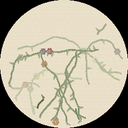
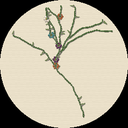
Generative: finish-then-hold model, 10 core-technique generators, 15 slow continuous variants, stability fixes
Claude-Session: https://claude.ai/code/session_01LQ7T65NZWhVT6pxRpE8RPU

Changed region(s): [[0.0625, 0.0312, 0.9688, 1.0], [0.875, 0.3438, 0.9375, 0.4375], [0.9375, 0.4375, 0.9688, 0.4688]]

diff --git a/docs/index.html b/docs/index.html
@@ -97,7 +97,7 @@ function render() {
       <div class="tick">${sel.has(n)?'✓':''}</div>
       <img src="thumbs/${n}.${anim?'gif':'png'}" loading="lazy" alt="${n}">
       <div class="n"><span>${n.replace(/_/g,' ')}</span><span>${p.gen ? 'on-device' : fmt(p.bytes)}</span></div>
-      <div class="s"><span class="tag">${p.set}</span>${p.gen ? '<span class="tag" style="color:#d6a83a">generative ∞</span>' : `<span class="tag">${p.frames} fr</span>`}${p.loop?'<span class="tag loop">loop</span>':''}${p.bg?'<span class="tag">ground</span>':''}</div>
+      <div class="s"><span class="tag">${p.set}</span>${p.gen ? (n.endsWith('_slow') ? '<span class="tag" style="color:#9cd">slow · continuous</span>' : '<span class="tag" style="color:#d6a83a">generative ∞</span>') : `<span class="tag">${p.frames} fr</span>`}${p.loop?'<span class="tag loop">loop</span>':''}${p.bg?'<span class="tag">ground</span>':''}</div>
     </div>`; }).join('');
   document.querySelectorAll('#sets .chip').forEach(c => c.classList.toggle('on', activeSets.has(c.dataset.set)));
   const u = used(), pct = Math.min(100, u / CAP * 100);

diff --git a/firmware/pin_firmware/generative.h b/firmware/pin_firmware/generative.h
@@ -8,13 +8,14 @@
 extern uint16_t *frameBuf;
 #define GW 240
 #define GH 240
-#define GEN_COUNT 32
+#define GEN_COUNT 42
 static const char *GEN_NAMES[GEN_COUNT] = {"gen_wander", "gen_spirograph", "gen_vine", "gen_lissajous", "gen_sashiko_drift",
                                            "gen_patchwork", "gen_mandala", "gen_flowfield", "gen_phyllotaxis", "gen_life_x", "gen_granny_square", "gen_granny_shapes",
                                            "gen_roses_cream", "gen_roses_black", "gen_daisies_cream", "gen_daisies_black", "gen_lavender_cream", "gen_lavender_black",
                                            "gen_blossom_cream", "gen_blossom_black", "gen_ferns_cream", "gen_ferns_black",
                                            "gen_asawa_lobes_cream", "gen_asawa_lobes_black", "gen_asawa_nested_cream", "gen_asawa_nested_black", "gen_asawa_tied_cream", "gen_asawa_tied_black",
-                                           "gen_asawa_column_cream", "gen_asawa_column_black", "gen_asawa_loops_cream", "gen_asawa_loops_black"};
+                                           "gen_asawa_column_cream", "gen_asawa_column_black", "gen_asawa_loops_cream", "gen_asawa_loops_black",
+                                           "gen_turing", "gen_truchet", "gen_flock", "gen_dla", "gen_packing", "gen_subdivide", "gen_contours", "gen_attractor", "gen_harmonograph", "gen_molnar"};
 
 // ---------------- palette / colour helpers ----------------
 static inline uint16_t C565(int r, int g, int b) { return ((r & 0xF8) << 8) | ((g & 0xFC) << 3) | (b >> 3); }
@@ -31,11 +32,12 @@ static float frandr(float a, float b) { return a + (b - a) * frand(); }
 // ---------------- drawing primitives ----------------
 static inline void px(int x, int y, uint16_t c) { if ((unsigned)x < GW && (unsigned)y < GH) frameBuf[y * GW + x] = c; }
 static void disc(float cx, float cy, float r, uint16_t c) {
+  if (!(r > 0 && r < 200) || !(fabsf(cx) < 1000) || !(fabsf(cy) < 1000)) return;
   int x0 = floorf(cx - r), x1 = ceilf(cx + r), y0 = floorf(cy - r), y1 = ceilf(cy + r); float r2 = r * r;
   for (int y = y0; y <= y1; y++) for (int x = x0; x <= x1; x++) { float dx = x + 0.5f - cx, dy = y + 0.5f - cy; if (dx * dx + dy * dy <= r2) px(x, y, c); }
 }
 static void thick(float x0, float y0, float x1, float y1, float w, uint16_t c) {
-  float dx = x1 - x0, dy = y1 - y0, L = sqrtf(dx * dx + dy * dy); int n = max(1, int(L / 0.6f));
+  float dx = x1 - x0, dy = y1 - y0, L = sqrtf(dx * dx + dy * dy); if (!(L < 600)) return; int n = max(1, int(L / 0.6f));
   for (int i = 0; i <= n; i++) { float t = (float)i / n; disc(x0 + dx * t, y0 + dy * t, w * 0.5f, c); }
 }
 // a thread: shadow, body, highlight ridge
@@ -75,6 +77,10 @@ struct Gen {
   float branchX[40], branchY[40], branchA[40], branchL[40]; int branches;
 };
 static Gen G;
+static bool genComplete = false;   // composition finished: hold (or, in slow mode, dissolve and begin again)
+static bool genEvolving = false;   // never 'finishes' — may be switched away from at any time
+static bool genSlow = false;
+static int  slowFade = 0;
 static uint16_t palRand() { return PAL[random(0, 7)]; }
 
 // ---- 0 wandering seam: a running stitch with momentum, re-entering with a new colour
@@ -101,13 +107,12 @@ static void stepSpiro() {
     G.i++;
     if (G.i % 500 == 0) G.pcol = palRand();
   }
-  if (G.i > 3000 * G.n / 3) { fadeToGround(90); G.a = random(40, 100); G.b = random(7, 45); G.c = random(10, 70); G.i = 0; }
-  else if (G.steps % 30 == 0) fadeToGround(4);
+  if (G.i > 1000 * G.n) genComplete = true;
 }
 // ---- 2 vine: branching growth with leaves and knot flowers
-static void initVine() { fillGround(C565(232, 224, 204), true); G.branches = 1; G.branchX[0] = 120 + frandr(-40, 40); G.branchY[0] = 236; G.branchA[0] = -1.57f + frandr(-0.3f, 0.3f); G.branchL[0] = 1; }
+static void initVine() { fillGround(C565(232, 224, 204), true); G.branches = 1; float x = 120 + frandr(-40, 40); G.branchX[0] = x; G.branchY[0] = 120 + sqrtf(108 * 108 - (x - 120) * (x - 120)) - 3; G.branchA[0] = -1.57f + frandr(-0.3f, 0.3f); G.branchL[0] = 1; }
 static void stepVine() {
-  if (G.branches == 0 || G.steps % 400 == 399) { fadeToGround(60); G.branches = 1; G.branchX[0] = frandr(30, 210); G.branchY[0] = frandr(30, 210); G.branchA[0] = frandr(0, 6.28f); G.branchL[0] = 1; }
+  if (G.branches == 0) { genComplete = true; return; }
   for (int bi = 0; bi < G.branches; bi++) {
     float &x = G.branchX[bi], &y = G.branchY[bi], &a = G.branchA[bi];
     a += frandr(-0.35f, 0.35f);
@@ -171,7 +176,7 @@ static void stepMand() {
     float a = 6.2832f * k / count - 1.57f + G.f;
     for (int o = -1; o <= 1; o++) { float aa = a + o * 0.05f * (12.0f / G.i); stitch(120 + ri * cosf(a), 120 + ri * sinf(a), 120 + ro * cosf(aa), 120 + ro * sinf(aa), 2.6f, G.pcol); }
     G.e += 1;
-  } else { G.i++; G.e = 0; G.pcol = palRand(); G.f += frandr(-0.2f, 0.2f); if (ro > 110) { fadeToGround(120); G.i = 1; G.n = random(5, 9); } }
+  } else { G.i++; G.e = 0; G.pcol = palRand(); G.f += frandr(-0.2f, 0.2f); if (ro > 110) genComplete = true; }
 }
 // ---- 7 flow field: short stitches following slowly rotating value noise
 static float vnoise(float x, float y) {
@@ -196,7 +201,7 @@ static void initPhyl() { uint16_t g = random(2) ? SOOT : C565(232, 224, 204); fi
 static void stepPhyl() {
   for (int k = 0; k < 2; k++) {
     float r = G.b * sqrtf((float)G.i), a = G.i * G.a;
-    if (r > 108) { fadeToGround(140); G.i = 0; G.a = 2.39996f + frandr(-0.03f, 0.03f); G.b = frandr(5.5f, 7.5f); G.col = random(0, 7); return; }
+    if (r > 108) { genComplete = true; return; }
     knot(120 + r * cosf(a), 120 + r * sinf(a), 2.2f + r / 60, PAL[(G.col + G.i / 40) % 7]); G.i++;
   }
 }
@@ -241,7 +246,7 @@ static void grannyNew(bool shapes) {
 }
 static void T(float x, float y, float rot, float &ox, float &oy) { ox = 120 + x * cosf(rot) - y * sinf(rot); oy = 120 + x * sinf(rot) + y * cosf(rot); }
 static void grannyStep(bool shapes) {
-  if (GR.done) { if (++GR.holdSteps > 250) { fadeToGround(255); grannyNew(shapes); } return; }
+  if (GR.done) { genComplete = true; return; }
   uint16_t col = GR.pal[GR.n % 8];
   if (GR.sides == 0) {   // circular rounds
     float ri = GR.inner0 + GR.step * (GR.n - 1), ro = ri + GR.step - 2; int count = 6 + 5 * GR.n;
@@ -337,7 +342,7 @@ static void floraStep() {
   int blooming = 0;
   for (int i = 0; i < FL.nfl; i++) if (FL.fl[i].alive) { blooming++; if (!bloom(FL.fl[i])) FL.fl[i].alive = false; if (blooming >= 3) break; }
   if (alive == 0 && blooming == 0) {
-    if (++FL.quiet > 120) { fadeToGround(255); floraInit(FL.kind * 2 + FL.dark); }
+    if (++FL.quiet > 40) genComplete = true;
     else if (FL.quiet == 1 && FL.ntips < 20 && frand() < 0.7f) { FL.quiet = 0; if (FL.kind == 3) addTip(frandr(60, 180), frandr(60, 180), frandr(-0.6f, 0.6f)); else addGroundTip(frandr(40, 200)); }
   }
 }
@@ -381,7 +386,7 @@ static void asawaNew(int k) {
   if (AS.kind != 2) stitch(120, 0, 120, AS.forms[0].y0, 1.1f, asawaCol(0));   // hanging wire
 }
 static void asawaStep() {
-  if (AS.done) { if (++AS.hold > 220) { fadeToGround(255); asawaNew(AS.kind * 2 + AS.dark); } return; }
+  if (AS.done) { genComplete = true; return; }
   if (AS.kind == 2) {   // grow one generation of branches per few steps
     if (AS.bcur >= AS.bnext) { if (AS.f >= AS.bdepth || AS.nb >= 150) { AS.done = true; return; } AS.f++; AS.bcur = AS.bnext; AS.bnext = AS.nb; }
     // draw one branch, then spawn its children
@@ -404,13 +409,162 @@ static void asawaStep() {
   if (AS.y > F.y1) { AS.f++; if (AS.f >= AS.nf) AS.done = true; else { AS.y = AS.forms[AS.f].y0; AS.lastY = AS.y; } }
 }
 
+
+// ---- 32..41 core generative techniques, stitched
+static uint16_t randGround() { uint16_t g = random(2) ? SOOT : C565(232, 224, 204); fillGround(g, g != SOOT); return g; }
+static uint16_t threadFor(uint16_t g) { return g == SOOT ? (random(3) ? palRand() : CREAM) : palRand(); }
+
+// 32 reaction-diffusion (Gray-Scott) on a 60x60 grid, high-V cells become knots
+struct RD { float U[3600], V[3600]; float f, k; uint16_t col; } RDs;
+static void initTuring() { uint16_t g = randGround(); RDs.col = threadFor(g); RDs.f = frandr(0.030f, 0.055f); RDs.k = frandr(0.059f, 0.064f);
+  for (int i = 0; i < 3600; i++) { RDs.U[i] = 1; RDs.V[i] = 0; } for (int n = 0; n < 12; n++) { int cx = random(10, 50), cy = random(10, 50); for (int y = -2; y <= 2; y++) for (int x = -2; x <= 2; x++) RDs.V[(cy + y) * 60 + cx + x] = 1; } }
+static void stepTuring() {
+  for (int it = 0; it < 6; it++) {
+    static float nU[3600], nV[3600];
+    for (int y = 0; y < 60; y++) for (int x = 0; x < 60; x++) { int i = y * 60 + x; int l = y * 60 + (x + 59) % 60, r = y * 60 + (x + 1) % 60, u = ((y + 59) % 60) * 60 + x, d = ((y + 1) % 60) * 60 + x;
+      float lu = RDs.U[l] + RDs.U[r] + RDs.U[u] + RDs.U[d] - 4 * RDs.U[i], lv = RDs.V[l] + RDs.V[r] + RDs.V[u] + RDs.V[d] - 4 * RDs.V[i]; float uvv = RDs.U[i] * RDs.V[i] * RDs.V[i];
+      nU[i] = constrain(RDs.U[i] + 0.19f * lu - uvv + RDs.f * (1 - RDs.U[i]), 0.0f, 1.0f); nV[i] = constrain(RDs.V[i] + 0.09f * lv + uvv - (RDs.f + RDs.k) * RDs.V[i], 0.0f, 1.0f); }
+    memcpy(RDs.U, nU, sizeof nU); memcpy(RDs.V, nV, sizeof nV);
+  }
+  if (G.steps % 3) return;
+  fillGround(ground, ground != SOOT);
+  for (int y = 0; y < 60; y++) for (int x = 0; x < 60; x++) { float v = RDs.V[y * 60 + x]; float px_ = x * 4 + 2, py_ = y * 4 + 2; if (v > 0.25f && inCircle(px_, py_, 114)) knot(px_, py_, 1.2f + v * 2.2f, shade(RDs.col, 0.8f + v * 0.5f)); }
+  if (G.steps > 700) genComplete = true;
+}
+// 33 Truchet tiles: quarter-arc tiles, random flips rippling through
+static uint8_t TR[64];
+static void drawTruchetTile(int i, int j, uint16_t col) { const float c = 30; float x = i * c, y = j * c; bool f = TR[j * 8 + i];
+  for (int k = 0; k < 10; k++) { float a0 = k * 0.157f, a1 = a0 + 0.157f; float cx0 = f ? x : x + c, cy0 = y, cx1 = f ? x + c : x, cy1 = y + c; float s0 = f ? 0 : 1.5708f, s1 = f ? 3.1416f : 4.7124f;
+    stitch(cx0 + c / 2 * cosf(s0 + a0), cy0 + c / 2 * sinf(s0 + a0), cx0 + c / 2 * cosf(s0 + a1), cy0 + c / 2 * sinf(s0 + a1), 2.4f, col);
+    stitch(cx1 + c / 2 * cosf(s1 + a0), cy1 + c / 2 * sinf(s1 + a0), cx1 + c / 2 * cosf(s1 + a1), cy1 + c / 2 * sinf(s1 + a1), 2.4f, col); } }
+static void initTruchet() { uint16_t g = randGround(); G.pcol = threadFor(g); for (int i = 0; i < 64; i++) TR[i] = random(2); for (int j = 0; j < 8; j++) for (int i = 0; i < 8; i++) drawTruchetTile(i, j, G.pcol); }
+static void stepTruchet() { if (G.steps % 6) return; int i = random(0, 8), j = random(0, 8); TR[j * 8 + i] ^= 1;
+  // redraw the tile's square with ground then arcs (neighbours' arcs end at tile edges so nothing else is disturbed)
+  for (int y = j * 30; y < j * 30 + 30; y++) for (int x = i * 30; x < i * 30 + 30; x++) if (inCircle(x, y, 121)) frameBuf[y * GW + x] = ground;
+  drawTruchetTile(i, j, G.pcol); if (G.steps % 600 == 0) G.pcol = threadFor(ground); }
+// 34 flocking: boids leave thread trails
+struct Boid { float x, y, vx, vy; uint16_t c; } BD[26];
+static void initFlock() { uint16_t g = randGround(); for (auto &b : BD) { b.x = frandr(60, 180); b.y = frandr(60, 180); float a = frandr(0, 6.28f); b.vx = cosf(a) * 2; b.vy = sinf(a) * 2; b.c = threadFor(g); } }
+static void stepFlock() {
+  for (auto &b : BD) { float cx = 0, cy = 0, ax = 0, ay = 0, sx = 0, sy = 0; int n = 0;
+    for (auto &o : BD) { if (&o == &b) continue; float dx = o.x - b.x, dy = o.y - b.y, d2 = dx * dx + dy * dy; if (d2 < 1600) { cx += o.x; cy += o.y; ax += o.vx; ay += o.vy; n++; if (d2 < 120) { sx -= dx; sy -= dy; } } }
+    if (n) { b.vx += ((cx / n - b.x) * 0.004f + (ax / n - b.vx) * 0.05f + sx * 0.03f); b.vy += ((cy / n - b.y) * 0.004f + (ay / n - b.vy) * 0.05f + sy * 0.03f); }
+    float dx = 120 - b.x, dy = 120 - b.y, d = sqrtf(dx * dx + dy * dy); if (d > 90) { b.vx += dx / d * 0.12f; b.vy += dy / d * 0.12f; }
+    float sp = sqrtf(b.vx * b.vx + b.vy * b.vy); if (sp > 2.4f) { b.vx *= 2.4f / sp; b.vy *= 2.4f / sp; } if (sp < 1.2f) { b.vx *= 1.3f; b.vy *= 1.3f; }
+    float nx = b.x + b.vx, ny = b.y + b.vy; if (inCircle(nx, ny, 112)) stitch(b.x, b.y, nx, ny, 1.6f, b.c); b.x = nx; b.y = ny; }
+  if (G.steps % 6 == 0) fadeToGround(7);
+}
+// 35 diffusion-limited aggregation: walkers stick to a growing crystal of knots
+static uint8_t OCC[GW * GH / 8];
+static inline bool occ(int x, int y) { return (unsigned)x < GW && (unsigned)y < GH && (OCC[(y * GW + x) >> 3] >> (x & 7)) & 1; }
+static inline void setOcc(int x, int y) { OCC[(y * GW + x) >> 3] |= 1 << (x & 7); }
+static void initDLA() { uint16_t g = randGround(); G.pcol = threadFor(g); memset(OCC, 0, sizeof OCC); int seeds = random(1, 4); G.a = 6; for (int i = 0; i < seeds; i++) { int x = 120 + random(-30, 31), y = 120 + random(-30, 31); setOcc(x, y); knot(x, y, 2.2f, G.pcol); G.a = max(G.a, sqrtf((x - 120.f) * (x - 120.f) + (y - 120.f) * (y - 120.f)) + 6); } G.i = 0; }
+static void stepDLA() {
+  for (int w = 0; w < 10; w++) { float a = frandr(0, 6.28f), sr = min(108.0f, G.a + 4); int x = 120 + sr * cosf(a), y = 120 + sr * sinf(a);
+    for (int t = 0; t < 2500; t++) { x += random(-1, 2); y += random(-1, 2); if (!inCircle(x, y, min(110.0f, G.a + 14))) { a = frandr(0, 6.28f); x = 120 + sr * cosf(a); y = 120 + sr * sinf(a); }
+      if (occ(x + 1, y) || occ(x - 1, y) || occ(x, y + 1) || occ(x, y - 1)) { setOcc(x, y); float d = sqrtf((x - 120.f) * (x - 120.f) + (y - 120.f) * (y - 120.f)); knot(x, y, 1.6f + (d > 60 ? 0.6f : 0), shade(G.pcol, 0.75f + d / 200)); G.a = max(G.a, d + 6); G.i++; break; } } }
+  if (G.i > 2200 || G.a > 112) genComplete = true;
+}
+// 36 circle packing: stitched rings packed until the disc is full
+struct Circ { float x, y, r; } CP[140]; static int ncp;
+static void initPack() { uint16_t g = randGround(); ncp = 0; G.col = random(0, 7); }
+static void stepPack() {
+  for (int tries = 0; tries < 40 && ncp < 140; tries++) { float a = frandr(0, 6.28f), rr = sqrtf(frand()) * 106; float x = 120 + rr * cosf(a), y = 120 + rr * sinf(a); float r = 110 - rr;
+    for (int i = 0; i < ncp; i++) { float d = sqrtf((x - CP[i].x) * (x - CP[i].x) + (y - CP[i].y) * (y - CP[i].y)) - CP[i].r; r = min(r, d); }
+    if (r < 3.5f) continue; r = min(r, frandr(10, 34)) - 1.2f; CP[ncp++] = {x, y, r};
+    uint16_t c = PAL[(G.col + ncp) % 7]; int segs = max(10, (int)(r * 1.3f));
+    for (int k = 0; k < segs; k++) { float a0 = 6.2832f * k / segs, a1 = a0 + 6.2832f / segs; stitch(x + r * cosf(a0), y + r * sinf(a0), x + r * cosf(a1), y + r * sinf(a1), r > 14 ? 2.6f : 1.8f, c); }
+    if (r > 9) for (int k = 0; k < segs / 2; k++) { float a0 = 6.2832f * k / (segs / 2), a1 = a0 + 6.2832f / (segs / 2); stitch(x + r * 0.55f * cosf(a0), y + r * 0.55f * sinf(a0), x + r * 0.55f * cosf(a1), y + r * 0.55f * sinf(a1), 1.6f, shade(c, 0.8f)); }
+    if (r <= 9) knot(x, y, r * 0.45f, shade(c, 1.1f));
+    break; }
+  if (ncp >= 140 || G.steps > 600) genComplete = true;
+}
+// 37 recursive subdivision: a quilt that keeps re-splitting itself
+struct Rect { float x, y, w, h; } RQ[40]; static int nrq;
+static void drawRect(const Rect &R, uint16_t c) { float ang = random(2) ? 45 : 135; float ca = cosf(ang * 0.01745f), sa = sinf(ang * 0.01745f);
+  for (int y = R.y; y < R.y + R.h; y++) for (int x = R.x; x < R.x + R.w; x++) if (inCircle(x, y, 118)) { float sdist = x * ca + y * sa; int stripe = ((int)floorf(sdist / 1.6f)) & 1; px(x, y, stripe ? c : shade(c, 0.84f)); }
+  float x1 = R.x + R.w, y1 = R.y + R.h; dashes(R.x, R.y, x1, R.y, 4, 2.5f, 1.4f, CREAM); dashes(x1, R.y, x1, y1, 4, 2.5f, 1.4f, CREAM); dashes(x1, y1, R.x, y1, 4, 2.5f, 1.4f, CREAM); dashes(R.x, y1, R.x, R.y, 4, 2.5f, 1.4f, CREAM); }
+static void initSub() { fillGround(SOOT, false); nrq = 1; RQ[0] = {0, 0, 240, 240}; drawRect(RQ[0], palRand()); }
+static void stepSub() { if (G.steps % 14) return;
+  if (nrq >= 36) { genComplete = true; return; }
+  int i = random(0, nrq); Rect R = RQ[i]; if (R.w < 40 && R.h < 40) return; bool vert = R.w > R.h ? true : (R.h > R.w ? false : random(2)); float t = frandr(0.35f, 0.65f);
+  Rect A = R, B = R; if (vert) { A.w = R.w * t; B.x = R.x + A.w; B.w = R.w - A.w; } else { A.h = R.h * t; B.y = R.y + A.h; B.h = R.h - A.h; }
+  RQ[i] = A; RQ[nrq++] = B; drawRect(A, palRand()); drawRect(B, palRand()); }
+// 38 noise contours: marching-squares topography that slowly drifts
+static void initContours() { uint16_t g = randGround(); G.pcol = threadFor(g); G.a = frandr(0, 50); G.b = frandr(0, 50); G.c = 0; }
+static void stepContours() { if (G.steps % 4) return;
+  fillGround(ground, ground != SOOT); const int N = 40; const float cs = 240.0f / N; static float F[41 * 41];
+  for (int j = 0; j <= N; j++) for (int i = 0; i <= N; i++) F[j * 41 + i] = vnoise(i * cs / 70 + G.a, j * cs / 70 + G.b + G.c) + 0.5f * vnoise(i * cs / 30 + G.a * 2, j * cs / 30 + G.b);
+  for (int lv = 0; lv < 7; lv++) { float iso = 0.25f + lv * 0.17f; uint16_t c = lv % 2 ? G.pcol : shade(G.pcol, 0.8f);
+    for (int j = 0; j < N; j++) for (int i = 0; i < N; i++) { float a = F[j * 41 + i], b = F[j * 41 + i + 1], cc = F[(j + 1) * 41 + i + 1], d = F[(j + 1) * 41 + i]; int code = (a > iso) | (b > iso) << 1 | (cc > iso) << 2 | (d > iso) << 3; if (code == 0 || code == 15) continue;
+      float x0 = i * cs, y0 = j * cs; auto lerp = [&](float p, float q) { return (iso - p) / (q - p + 1e-6f); };
+      float ex[4][2] = {{x0 + cs * lerp(a, b), y0}, {x0 + cs, y0 + cs * lerp(b, cc)}, {x0 + cs * lerp(d, cc), y0 + cs}, {x0, y0 + cs * lerp(a, d)}};
+      static const int8_t tbl[16][4] = {{-1},{3,0,-1},{0,1,-1},{3,1,-1},{1,2,-1},{3,0,1,2},{0,2,-1},{3,2,-1},{2,3,-1},{2,0,-1},{0,1,2,3},{2,1,-1},{1,3,-1},{1,0,-1},{0,3,-1},{-1}};
+      for (int e = 0; e < 4 && tbl[code][e] >= 0; e += 2) { int p = tbl[code][e], q = tbl[code][e + 1]; if (inCircle(ex[p][0], ex[p][1], 114) && inCircle(ex[q][0], ex[q][1], 114)) stitch(ex[p][0], ex[p][1], ex[q][0], ex[q][1], 1.7f, c); } } }
+  G.c += 0.012f; if (G.steps % 600 == 599) { G.pcol = threadFor(ground); } }
+// 39 strange attractor (Clifford): points accumulate as knots, parameters re-rolled when it goes stale
+static void initAttr() { uint16_t g = randGround(); G.pcol = threadFor(g);
+  for (int tries = 0; tries < 40; tries++) {
+    G.a = (random(2) ? 1 : -1) * frandr(1.3f, 2.0f); G.b = (random(2) ? 1 : -1) * frandr(1.3f, 2.0f); G.c = (random(2) ? 1 : -1) * frandr(0.6f, 1.9f); G.d = (random(2) ? 1 : -1) * frandr(0.6f, 1.9f);
+    float x = 0.1f, y = 0.1f, mnx = 9, mxx = -9, mny = 9, mxy = -9;
+    for (int i = 0; i < 400; i++) { float nx = sinf(G.a * y) + G.c * cosf(G.a * x), ny = sinf(G.b * x) + G.d * cosf(G.b * y); x = nx; y = ny; if (i > 50) { mnx = min(mnx, x); mxx = max(mxx, x); mny = min(mny, y); mxy = max(mxy, y); } }
+    if (mxx - mnx > 1.2f && mxy - mny > 1.2f) break;                 // spread out = a real attractor, not a fixed point or short cycle
+  }
+  G.x = 0.1f; G.y = 0.1f; G.i = 0; }
+static void stepAttr() {
+  for (int k = 0; k < 40; k++) { float nx = sinf(G.a * G.y) + G.c * cosf(G.a * G.x), ny = sinf(G.b * G.x) + G.d * cosf(G.b * G.y); G.x = nx; G.y = ny;
+    float px_ = 120 + nx * 42, py_ = 120 + ny * 42; if (inCircle(px_, py_, 112) && G.i > 20) knot(px_, py_, 1.3f, shade(G.pcol, 0.8f + 0.4f * frand())); G.i++; }
+  if (G.steps > 450) genComplete = true;
+}
+// 40 harmonograph: two damped pendulums trace a single thread
+static float HF[4], HP[4];
+static void initHarm() { uint16_t g = randGround(); G.pcol = threadFor(g);
+  int base = random(1, 4); HF[0] = base; HF[1] = base * (random(2) ? 2 : 3) + frandr(-0.02f, 0.02f); HF[2] = random(1, 4) + frandr(-0.02f, 0.02f); HF[3] = HF[2] * (random(2) ? 2 : 1.5f) + frandr(-0.02f, 0.02f);
+  for (int i = 0; i < 4; i++) HP[i] = frandr(0, 6.28f);
+  G.e = frandr(0.00035f, 0.0008f); G.i = 0; G.x = G.y = 0; }
+static void stepHarm() {
+  for (int k = 0; k < 8; k++) { float t = G.i * 0.03f, damp = expf(-G.e * G.i);
+    float x = 120 + damp * (62 * sinf(HF[0] * t + HP[0]) + 40 * sinf(HF[1] * t + HP[1])), y = 120 + damp * (62 * sinf(HF[2] * t + HP[2]) + 40 * sinf(HF[3] * t + HP[3]));
+    if (G.i > 0 && inCircle(x, y, 114) && inCircle(G.x, G.y, 114)) stitch(G.x, G.y, x, y, 1.5f, shade(G.pcol, 0.7f + 0.6f * damp)); G.x = x; G.y = y; G.i++; }
+  if (expf(-G.e * G.i) < 0.08f) genComplete = true;
+}
+// 41 Molnár's (Dés)Ordres: a grid of nested squares, disorder creeping in then resetting
+static void initMolnar() { uint16_t g = randGround(); G.pcol = threadFor(g); G.a = 0; }
+static void stepMolnar() { if (G.steps % 5) return;
+  fillGround(ground, ground != SOOT); const int n = 5; const float cell = 44, o = 120 - cell * n / 2;
+  for (int j = 0; j < n; j++) for (int i = 0; i < n; i++) { float cx = o + (i + 0.5f) * cell, cy = o + (j + 0.5f) * cell; uint32_t h = (i * 73856093u) ^ (j * 19349663u) ^ (uint32_t)(G.steps / 5 * 2654435761u);
+    for (int k = 0; k < 4; k++) { float hs = cell * (0.46f - k * 0.1f); float jit = G.a * (((h >> (k * 5)) & 31) / 31.0f - 0.5f); float rot = jit * 0.6f, dx = jit * 5, dy = (((h >> (k * 3 + 7)) & 15) / 15.0f - 0.5f) * G.a * 5; float cr = cosf(rot), sr = sinf(rot);
+      float px_[4], py_[4]; for (int v = 0; v < 4; v++) { float sx = (v == 1 || v == 2) ? hs : -hs, sy = v >= 2 ? hs : -hs; px_[v] = cx + dx + sx * cr - sy * sr; py_[v] = cy + dy + sx * sr + sy * cr; }
+      for (int v = 0; v < 4; v++) if (inCircle(px_[v], py_[v], 116)) stitch(px_[v], py_[v], px_[(v + 1) % 4], py_[(v + 1) % 4], 1.6f, G.pcol); } }
+  G.a += 0.02f; if (G.a > 1.6f) { G.a = 0; G.pcol = threadFor(ground); } }
+
 // ---------------- dispatch ----------------
-static void genInit(int id) { G.id = id; G.steps = 0;
+static const bool GEN_EVOLVING[GEN_COUNT] = {true, false, false, true, true, true, false, true, false, true, false, false,
+                                            false, false, false, false, false, false, false, false, false, false,
+                                            false, false, false, false, false, false, false, false, false, false,
+                                            false, true, true, false, false, false, true, false, false, true};
+static void genInit(int id) { G.id = id; G.steps = 0; genComplete = false; genEvolving = GEN_EVOLVING[id]; slowFade = 0;
   switch (id) { case 0: initWander(); break; case 1: initSpiro(); break; case 2: initVine(); break; case 3: initLiss(); break; case 4: initSash(); drawSash(); break;
-                case 5: initPatch(); break; case 6: initMand(); break; case 7: initFlow(); break; case 8: initPhyl(); break; case 9: initLife(); break; case 10: grannyNew(false); break; case 11: grannyNew(true); break; default: if (id >= 22) asawaNew(id - 22); else floraInit(id - 12); } }
+                case 5: initPatch(); break; case 6: initMand(); break; case 7: initFlow(); break; case 8: initPhyl(); break; case 9: initLife(); break; case 10: grannyNew(false); break; case 11: grannyNew(true); break; case 32: initTuring(); break; case 33: initTruchet(); break; case 34: initFlock(); break; case 35: initDLA(); break; case 36: initPack(); break;
+                case 37: initSub(); break; case 38: initContours(); break; case 39: initAttr(); break; case 40: initHarm(); break; case 41: initMolnar(); break;
+                default: if (id >= 22) asawaNew(id - 22); else floraInit(id - 12); } }
 static void genStep() {
+  if (genComplete) {
+    if (!genSlow) return;                                   // hold the finished piece until the slot ends
+    if (++slowFade % 3 == 0) fadeToGround(5);               // slow mode: dissolve gently, then begin a new one
+    if (slowFade > 240) { int id = G.id; genInit(id); }
+    return;
+  }
   switch (G.id) { case 0: stepWander(); break; case 1: stepSpiro(); break; case 2: stepVine(); break; case 3: stepLiss(); break; case 4: stepSash(); break;
-                  case 5: stepPatch(); break; case 6: stepMand(); break; case 7: stepFlow(); break; case 8: stepPhyl(); break; case 9: stepLife(); break; case 10: grannyStep(false); break; case 11: grannyStep(true); break; default: if (G.id >= 22) asawaStep(); else floraStep(); }
+                  case 5: stepPatch(); break; case 6: stepMand(); break; case 7: stepFlow(); break; case 8: stepPhyl(); break; case 9: stepLife(); break; case 10: grannyStep(false); break; case 11: grannyStep(true); break; case 32: stepTuring(); break; case 33: stepTruchet(); break; case 34: stepFlock(); break; case 35: stepDLA(); break; case 36: stepPack(); break;
+                  case 37: stepSub(); break; case 38: stepContours(); break; case 39: stepAttr(); break; case 40: stepHarm(); break; case 41: stepMolnar(); break;
+                  default: if (G.id >= 22) asawaStep(); else floraStep(); }
   G.steps++;
 }
-static int genIndex(const char *name) { for (int i = 0; i < GEN_COUNT; i++) if (strcmp(name, GEN_NAMES[i]) == 0) return i; return -1; }
+// "gen_x" -> id; "gen_x_slow" -> id with slow flag (bit 8)
+static int genIndex(const char *name) {
+  char base[32]; strncpy(base, name, 31); base[31] = 0; int n = strlen(base); bool slow = n > 5 && strcmp(base + n - 5, "_slow") == 0; if (slow) base[n - 5] = 0;
+  for (int i = 0; i < GEN_COUNT; i++) if (strcmp(base, GEN_NAMES[i]) == 0) return i | (slow ? 256 : 0);
+  return -1;
+}
+static bool genCanSwitch() { return genComplete || genEvolving || genSlow; }

diff --git a/README.md b/README.md
@@ -5,7 +5,7 @@ stitched-looking animations: embroidered insects, live sashiko and cross-stitch,
 patchwork, Japanese wagara, and more — 122 pre-rendered pieces plus 32 **generative** patterns that are
 computed on the pin itself (`firmware/pin_firmware/generative.h`) and never repeat: wandering seams, spirographs,
 growing vines, drifting sashiko, a Voronoi patchwork, flow-field stitches, phyllotaxis knots, cross-stitch Life,
-two that crochet a fresh granny square or shape every few minutes, and ten growing-floral beds (roses, daisies, lavender, blossom branches, ferns — each on cream and on black), and ten Ruth Asawa–inspired looped-wire forms — stacked lobes, nested spheres, tied-wire stars, hourglass columns, crocheted loop vessels — crocheted ring by ring in colored string on cream or white wire on black. Generative pieces cost no flash.
+two that crochet a fresh granny square or shape every few minutes, and ten growing-floral beds (roses, daisies, lavender, blossom branches, ferns — each on cream and on black), and ten Ruth Asawa–inspired looped-wire forms — stacked lobes, nested spheres, tied-wire stars, hourglass columns, crocheted loop vessels — crocheted ring by ring in colored string on cream or white wire on black. Ten more use core generative techniques (reaction-diffusion, Truchet tiles, flocking, DLA, circle packing, recursive subdivision, noise contours, a Clifford attractor, a harmonograph, Molnár's disordered squares), and fifteen `_slow` variants run continuously at a quarter speed, dissolving and regrowing instead of holding. A generative piece always finishes what it is making before the pin moves on. Generative pieces cost no flash.
 
 **Gallery + flasher:** https://davidpryan.github.io/embroidered-pin/
 
